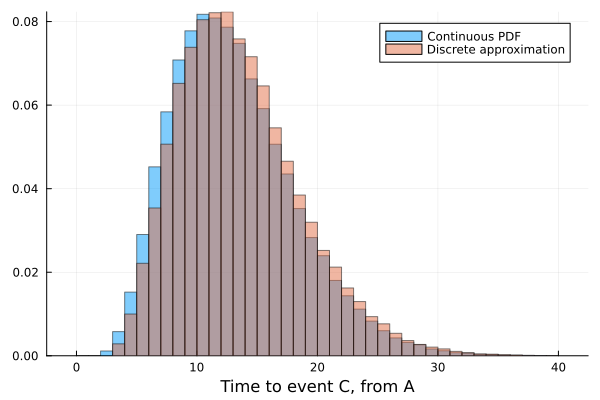
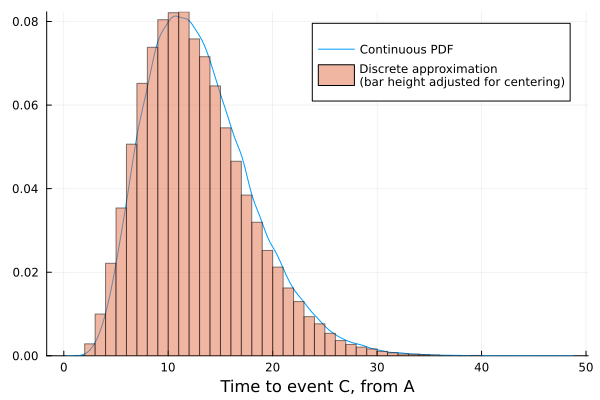
Minor fixes to the docs

Changed region(s): [[0.09, 0.03, 0.9, 0.93], [0.51, 0.03, 0.96, 0.27], [0.9, 0.9, 0.99, 0.93]]

diff --git a/docs/src/double_censoring.md b/docs/src/double_censoring.md
@@ -1,7 +1,7 @@
 # Double Censoring
 
 The motivation for this package is simplifying the simulation of continuous waiting time distributions in discrete time.
-For example say I have some complex dynamic model where after event $A$ occurs there we know in the real world $\mathrm{Gamma}(3.1, 2.1)$ is a good approximation for the time until event $B$ occurs.
+For example say I have some complex dynamic model where after event $A$ occurs there we know in the real world, $\mathrm{Gamma}(3.1, 2.1)$ is a good approximation for the time until event $B$ occurs.
 
 If I am running this model in discrete time with a relative time step of 0.1, I can use the following code to simulate this:
 ```julia
@@ -14,10 +14,11 @@ discrete_waiting_time = discretize(continuous_waiting_time, time_step, method = 
 discrete_waiting_time.support ./= time_step
 ```
 
-Then discrete_waiting_time can be used to simulate the number of discrete steps until the event occurs, with each $x ~ \mathrm{discrete_waiting_time}$ representing that the event occurs in the interval $[x, x + 1)$
+Then discrete_waiting_time can be used to simulate the number of discrete steps until the event occurs, with each $x \dist \mathrm{discrete\_waiting\_time}$ representing that the event occurs in the interval $[x, x + 1)$
 
 This approximates the continuous distribution well (after adjusting for left-alignment of the intervals):
-![Figure showing a histogram of samples from discrete_waiting_time against the pdf of the continuous distribution](assets/single_censoring.png)
+
+![Figure showing samples from discrete_waiting_time against the pdf of the continuous distribution](assets/single_censoring.png)
 
 Comparing summary values:
 
@@ -40,7 +41,8 @@ discrete_waiting_time_two.support ./= time_step
 ```
 
 This also approximates the continuous distribution reasonably well (after adjusting for left-alignment of the intervals):
-![Figure showing a histogram of samples from discrete_waiting_time and discrete_waiting_time_two compared to the histogram of the two continuous distributions](assets/double_censoring.png)
+
+![Figure showing the output of samples from discrete_waiting_time and discrete_waiting_time_two compared to a density estimate of the convolution of two continuous distributions](assets/double_censoring.png)
 
 Comparing summary values:
 
@@ -51,7 +53,7 @@ Comparing summary values:
 | Variance | 25.64 | 25.8 |
 
 Hence I don't think double censoring matters that much for the use case of this package.
-We do end with the differences in the Medians and the in general the discrete approximation is slightly skewed to the right.
+We do end with the differences in the medians (expected) and the discrete approximation is slightly skewed to the left.
 A solution to this would be to try to discretize over both distributions and their convolution, but this hasn't been implemented yet.
 
 See `examples/double_censoring.jl` for the script behind this analysis.
